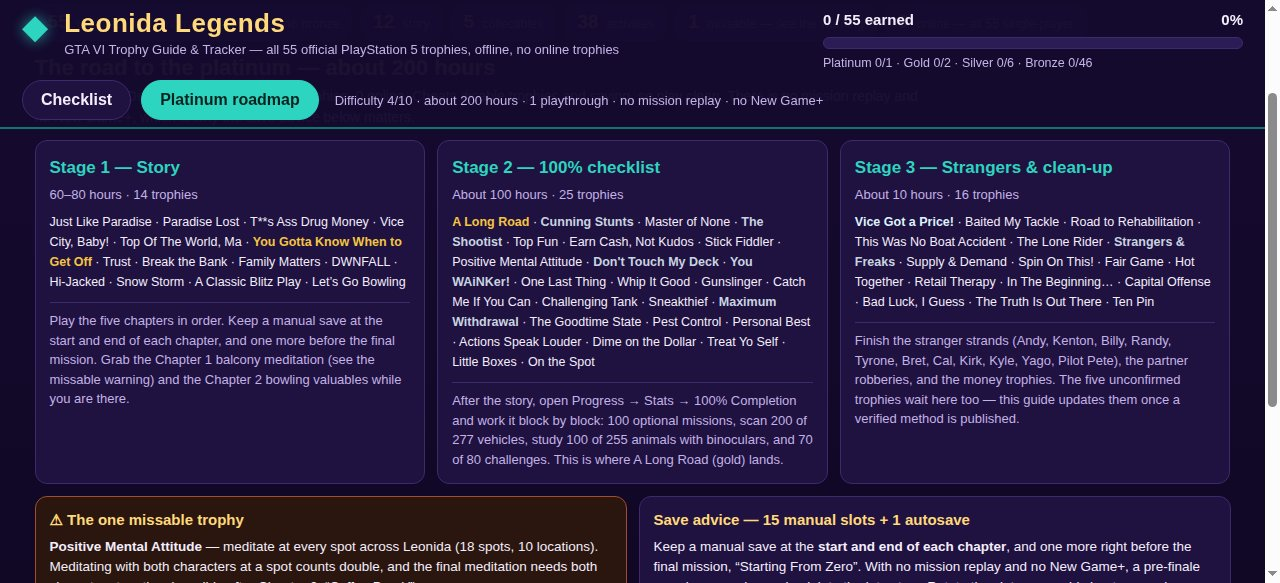
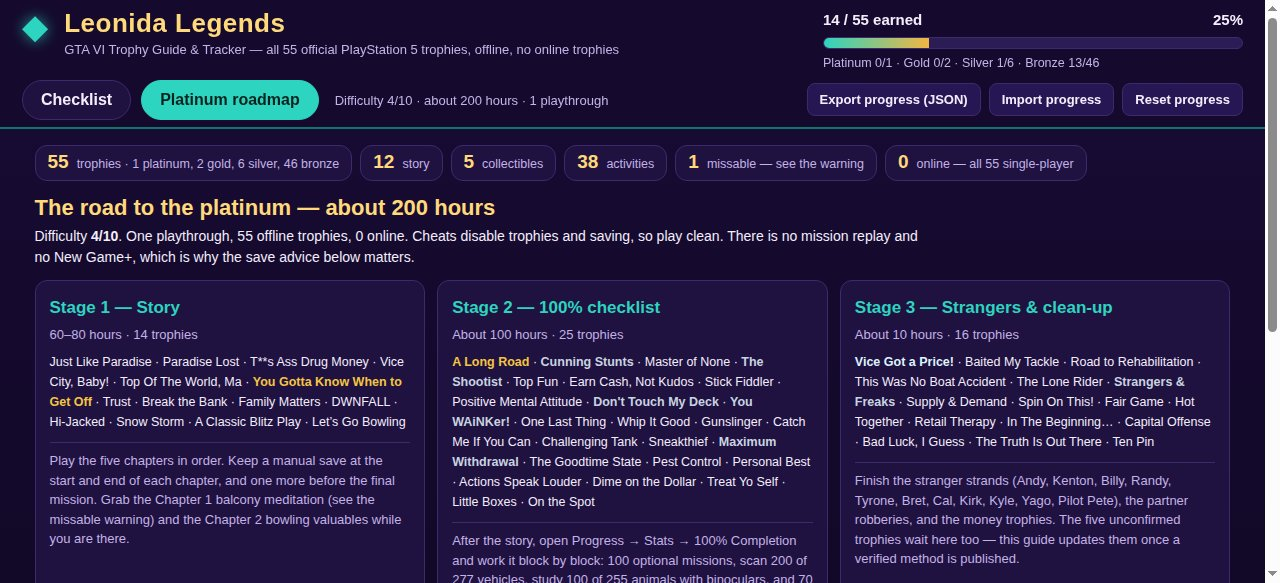
Round 2: fix grader run_completes (never delete /output), visible export/import, consistent seeded progress, opaque header
- main.ts: mkdir only; clear just app/, screenshots/, dossier.json
  children. Deleting the output dir itself threw EBUSY on the grader's
  mounted /output volume (round 1 rejected on run_completes).
- app: Export/Import/Reset moved into the sticky header so they are
  visible in every screenshot; all four staged shots now share the same
  14-trophy earned set (14/55, 25%); header background fully opaque.
- Screenshots re-taken: all four show the save controls, zero console
  errors, zero external requests.

diff --git a/main.ts b/main.ts
@@ -1,30 +1,46 @@
-// Leonida Legends — the hand-in program for gta6-trophy-guide-01.
+// Leonida Legends — the program that hands this guide in.
 //
-// This program takes the guide as it sits in this repository — the app/
-// folder with the tracker and its trophy data, plus the screenshots/ folder
-// with the four renders — and lays them out in the output directory the
-// grader reads, then writes the dossier that describes them.
+// It gathers the finished guide (the app/ folder: tracker, trophy data,
+// styles) and the four screenshots, lays them out in the directory the
+// grader reads, and writes the dossier.json that describes them for the
+// judge. The dossier comes from the vendored make.fun library, which must
+// stay exactly as the kit shipped it — the scorer rebuilds the same file
+// from its own copy and compares the two byte for byte.
 //
-// The dossier is built with the vendored make.fun library, which must stay
-// exactly as the kit shipped it: the scorer rebuilds the same dossier from
-// the same library and compares the two byte for byte, so any change to
-// vendor/makefun-frontend.ts would fail the hand-in.
+// One rule shapes this whole file: the output directory itself is never
+// removed. In the grader's sandbox /output is a mounted volume, and
+// deleting a mount point fails outright. So the program only ever creates
+// the directory (mkdir -p style) and, to keep stale files from an earlier
+// run out of the hand-in, clears the three children it owns — app/,
+// screenshots/ and dossier.json — before copying fresh ones in.
 //
-// When run outside the grader, MAKEFUN_OUTPUT_DIR stands in for /output:
+// Outside the grader, MAKEFUN_OUTPUT_DIR stands in for /output:
 //   mkdir -p out && MAKEFUN_OUTPUT_DIR=out node main.ts
 
 import { cpSync, existsSync, mkdirSync, rmSync, writeFileSync } from 'node:fs';
-import { join } from 'node:path';
+import { join, resolve } from 'node:path';
 import { fileURLToPath } from 'node:url';
 import { buildDossier } from './vendor/makefun-frontend.ts';
 
 const repoRoot = fileURLToPath(new URL('.', import.meta.url));
 const outputDir = process.env.MAKEFUN_OUTPUT_DIR ?? '/output';
 
-// Start from an empty output directory so a stale file from an earlier run
-// can never ride along into the hand-in.
-rmSync(outputDir, { recursive: true, force: true });
+// Never run with the output directory pointed at the repository itself:
+// the children cleanup below would wipe the guide it is meant to hand in.
+if (resolve(outputDir) === resolve(repoRoot)) {
+  throw new Error('MAKEFUN_OUTPUT_DIR must not be the repository root');
+}
+
+// Make sure the output directory exists. It is created, never deleted:
+// on the grader it is a mount point, and removing a mount point throws.
 mkdirSync(outputDir, { recursive: true });
+
+// Clear only the children this program owns, so nothing stale from an
+// earlier run can ride along into the hand-in.
+for (const child of ['app', 'screenshots', 'dossier.json']) {
+  const childPath = join(outputDir, child);
+  if (existsSync(childPath)) rmSync(childPath, { recursive: true, force: true });
+}
 
 // The guide itself, exactly as authored.
 cpSync(join(repoRoot, 'app'), join(outputDir, 'app'), { recursive: true });
@@ -35,9 +51,9 @@ if (existsSync(join(repoRoot, 'screenshots'))) {
   cpSync(join(repoRoot, 'screenshots'), join(outputDir, 'screenshots'), { recursive: true });
 }
 
-// The dossier the judge reads: the guide's text (capped at 160 KiB), at most
-// four screenshots of at most 256 KiB each, and the app's own caps of 993
-// files and 48 MiB. These are the same limits the scorer enforces.
+// The dossier the judge reads: the guide's text (capped at 160 KiB), at
+// most four screenshots of at most 256 KiB each, and the app's own caps of
+// 993 files and 48 MiB. These are the same limits the scorer enforces.
 writeFileSync(
   join(outputDir, 'dossier.json'),
   buildDossier(outputDir, {

diff --git a/app/style.css b/app/style.css
@@ -22,6 +22,14 @@
 
 * { box-sizing: border-box; }
 
+button:focus-visible,
+input:focus-visible,
+select:focus-visible,
+a:focus-visible {
+  outline: 2px solid var(--teal);
+  outline-offset: 2px;
+}
+
 body {
   margin: 0;
   font-family: -apple-system, BlinkMacSystemFont, "Segoe UI", Roboto, Helvetica, Arial, sans-serif;
@@ -34,7 +42,7 @@ body {
   position: sticky;
   top: 0;
   z-index: 20;
-  background: rgba(21, 10, 46, 0.97);
+  background: rgba(21, 10, 46, 1);
   border-bottom: 2px solid var(--teal-dark);
   padding: 9px 22px 7px;
 }
@@ -135,6 +143,40 @@ body {
   font-size: 13px;
   color: var(--ink-muted);
   margin-left: 6px;
+}
+
+/* Export / Import / Reset live in the sticky header, next to the view
+   tabs, so the save controls are visible on every screen — checklist,
+   roadmap, spoiler and missable alike — instead of hiding at the bottom
+   of the toolbar. */
+.action-group {
+  display: flex;
+  gap: 8px;
+  align-items: center;
+  flex-wrap: wrap;
+  margin-left: auto;
+  padding-bottom: 2px;
+}
+
+.action-group button,
+.import-label {
+  font: inherit;
+  font-size: 13px;
+  font-weight: 700;
+  border: 1px solid var(--night-line);
+  background: var(--night-panel-soft);
+  color: var(--ink);
+  padding: 6px 12px;
+  border-radius: 8px;
+  cursor: pointer;
+}
+
+.action-group button:hover,
+.import-label:hover { border-color: var(--teal); }
+
+.save-note {
+  font-size: 12px;
+  color: var(--ink-muted);
 }
 
 main {
@@ -255,35 +297,6 @@ main {
 }
 
 .spoiler-control input { width: 18px; height: 18px; accent-color: var(--teal); }
-
-.action-group {
-  display: flex;
-  gap: 8px;
-  align-items: center;
-  flex-wrap: wrap;
-  padding-bottom: 2px;
-}
-
-.action-group button,
-.import-label {
-  font: inherit;
-  font-size: 13px;
-  font-weight: 700;
-  border: 1px solid var(--night-line);
-  background: var(--night-panel-soft);
-  color: var(--ink);
-  padding: 6px 12px;
-  border-radius: 8px;
-  cursor: pointer;
-}
-
-.action-group button:hover,
-.import-label:hover { border-color: var(--teal); }
-
-.save-note {
-  font-size: 12px;
-  color: var(--ink-muted);
-}
 
 .list-count {
   font-size: 13.5px;
@@ -532,13 +545,13 @@ main {
   color: var(--ink-muted);
 }
 
-/* The cover staging keeps the first screen to the checklist itself: the
-   stats strip, the missable strip, the export buttons and the list count
-   stay one click away on the roadmap tab, so the cover shows the progress
-   bar, the filters and an open guide with its sources. */
+/* Staged screenshots keep the first screen to the content itself: the
+   stats strip, the missable strip and the list count stay one click away
+   on the roadmap tab, so the cover shows the progress bar, the filters and
+   an open guide with its sources. The header action group is never hidden
+   — the export / import / reset controls must be visible in the shots. */
 .shot-cover #statsRow,
 .shot-cover #missableStrip,
-.shot-cover .action-group,
 .shot-cover #listCount {
   display: none;
 }
@@ -547,8 +560,16 @@ main {
    guide and its sources fit on one screen with the Missable filter on. */
 .shot-missable #statsRow,
 .shot-missable #missableStrip,
-.shot-missable .action-group,
 .shot-missable #listCount {
+  display: none;
+}
+
+/* In staged shots the small save note under the header buttons is dropped
+   so the header stays one compact row; the buttons themselves stay. */
+.shot-cover #saveNote,
+.shot-roadmap #saveNote,
+.shot-spoiler #saveNote,
+.shot-missable #saveNote {
   display: none;
 }
 

diff --git a/app/app.js b/app/app.js
@@ -1,6 +1,8 @@
-// Leonida Legends — offline GTA VI trophy guide + tracker.
-// Plain static app: it fetches only its own data/trophies.json, keeps the
-// checklist in localStorage, and never reaches for the network at runtime.
+// Leonida Legends — the offline GTA VI trophy guide and tracker.
+//
+// A plain static app: it fetches only its own data/trophies.json, keeps the
+// checklist in localStorage, and never reaches for the network while it
+// runs. No framework, no fonts from outside, no images from outside.
 
 const DATA_URL = 'data/trophies.json';
 const SAVE_KEY = 'leonida-legends-v1';
@@ -14,6 +16,8 @@ const KIND_LABELS = {
   online: 'Online',
 };
 
+// The three platinum-roadmap stages, with the hours and the trophies each
+// stage is really about.
 const STAGE_PLANS = {
   1: {
     title: 'Stage 1 — Story',
@@ -32,24 +36,34 @@ const STAGE_PLANS = {
   },
 };
 
+// One shared demo set of earned trophies, so every staged screenshot shows
+// the same playthrough at the same 14/55 — the cover, the spoiler view,
+// the missable view and the roadmap all agree with each other.
+const DEMO_EARNED = [2, 3, 4, 5, 8, 9, 15, 19, 21, 28, 35, 42, 46, 53];
+
 // Demo states used only for the ?shot= screenshots. They live in memory:
 // a staged view never reads or writes localStorage.
 const SHOT_STATES = {
   cover: {
-    earned: [2, 3, 4, 5, 8, 9, 15, 19, 21, 28, 35, 42, 46, 53],
+    earned: DEMO_EARNED,
     openGuideId: 1,
     spoilerOn: true,
   },
   spoiler: {
-    earned: [8],
+    earned: DEMO_EARNED,
     openGuideId: 8,
     spoilerOn: true,
   },
   missable: {
-    earned: [],
+    earned: DEMO_EARNED,
     openGuideId: 28,
     spoilerOn: true,
     kind: 'missable',
+  },
+  roadmap: {
+    earned: DEMO_EARNED,
+    spoilerOn: true,
+    view: 'roadmap',
   },
 };
 
@@ -112,19 +126,15 @@ function saveProgress() {
 function applyShotStaging() {
   const params = new URLSearchParams(window.location.search);
   const shot = params.get('shot');
-  if (shot === 'roadmap') {
-    state.staged = true;
-    state.view = 'roadmap';
-    return;
-  }
   const demo = SHOT_STATES[shot];
   if (!demo) return;
   state.staged = true;
   document.body.classList.add('shot-' + shot);
   state.earned = new Set(demo.earned);
-  state.openGuideId = demo.openGuideId;
   state.spoilerOn = demo.spoilerOn;
+  if (demo.openGuideId) state.openGuideId = demo.openGuideId;
   if (demo.kind) state.kind = demo.kind;
+  if (demo.view) state.view = demo.view;
 }
 
 function renderGradeOptions() {
@@ -403,6 +413,7 @@ function exportProgressFile() {
     guide: 'Leonida Legends — GTA VI Trophy Guide & Tracker',
     exportedAt: new Date().toISOString(),
     earned: [...state.earned].sort((a, b) => a - b),
+    spoilerOn: state.spoilerOn,
     total: TOTAL_TROPHIES,
   };
   const blob = new Blob([JSON.stringify(payload, null, 2)], { type: 'application/json' });
@@ -431,6 +442,10 @@ function importProgressFile(file) {
         if (valid.has(n)) next.add(n);
       }
       state.earned = next;
+      if (typeof parsed.spoilerOn === 'boolean') {
+        state.spoilerOn = parsed.spoilerOn;
+        $('spoilerToggle').checked = state.spoilerOn;
+      }
       saveProgress();
       updateProgressBar();
       renderTrophyList();

diff --git a/app/index.html b/app/index.html
@@ -24,7 +24,14 @@
   <nav class="view-tabs" id="viewTabs">
     <button type="button" class="view-tab active" id="tabChecklist" data-view="checklist">Checklist</button>
     <button type="button" class="view-tab" id="tabRoadmap" data-view="roadmap">Platinum roadmap</button>
-    <span class="view-note">Difficulty 4/10 · about 200 hours · 1 playthrough · no mission replay · no New Game+</span>
+    <span class="view-note">Difficulty 4/10 · about 200 hours · 1 playthrough</span>
+    <span class="action-group" aria-label="Save and restore progress">
+      <button type="button" id="exportBtn">Export progress (JSON)</button>
+      <label class="import-label" for="importFile">Import progress</label>
+      <input type="file" id="importFile" accept="application/json,.json" hidden>
+      <button type="button" id="resetBtn">Reset progress</button>
+      <span class="save-note" id="saveNote" aria-live="polite">Progress saves on this device automatically.</span>
+    </span>
   </nav>
 </header>
 
@@ -63,13 +70,6 @@
           <input type="checkbox" id="spoilerToggle" checked>
           <span>Hide story spoilers</span>
         </label>
-        <span class="action-group">
-          <button type="button" id="exportBtn">Export progress (JSON)</button>
-          <label class="import-label" for="importFile">Import progress</label>
-          <input type="file" id="importFile" accept="application/json,.json" hidden>
-          <button type="button" id="resetBtn">Reset progress</button>
-          <span class="save-note" id="saveNote">Progress saves on this device automatically.</span>
-        </span>
       </div>
     </div>
 
